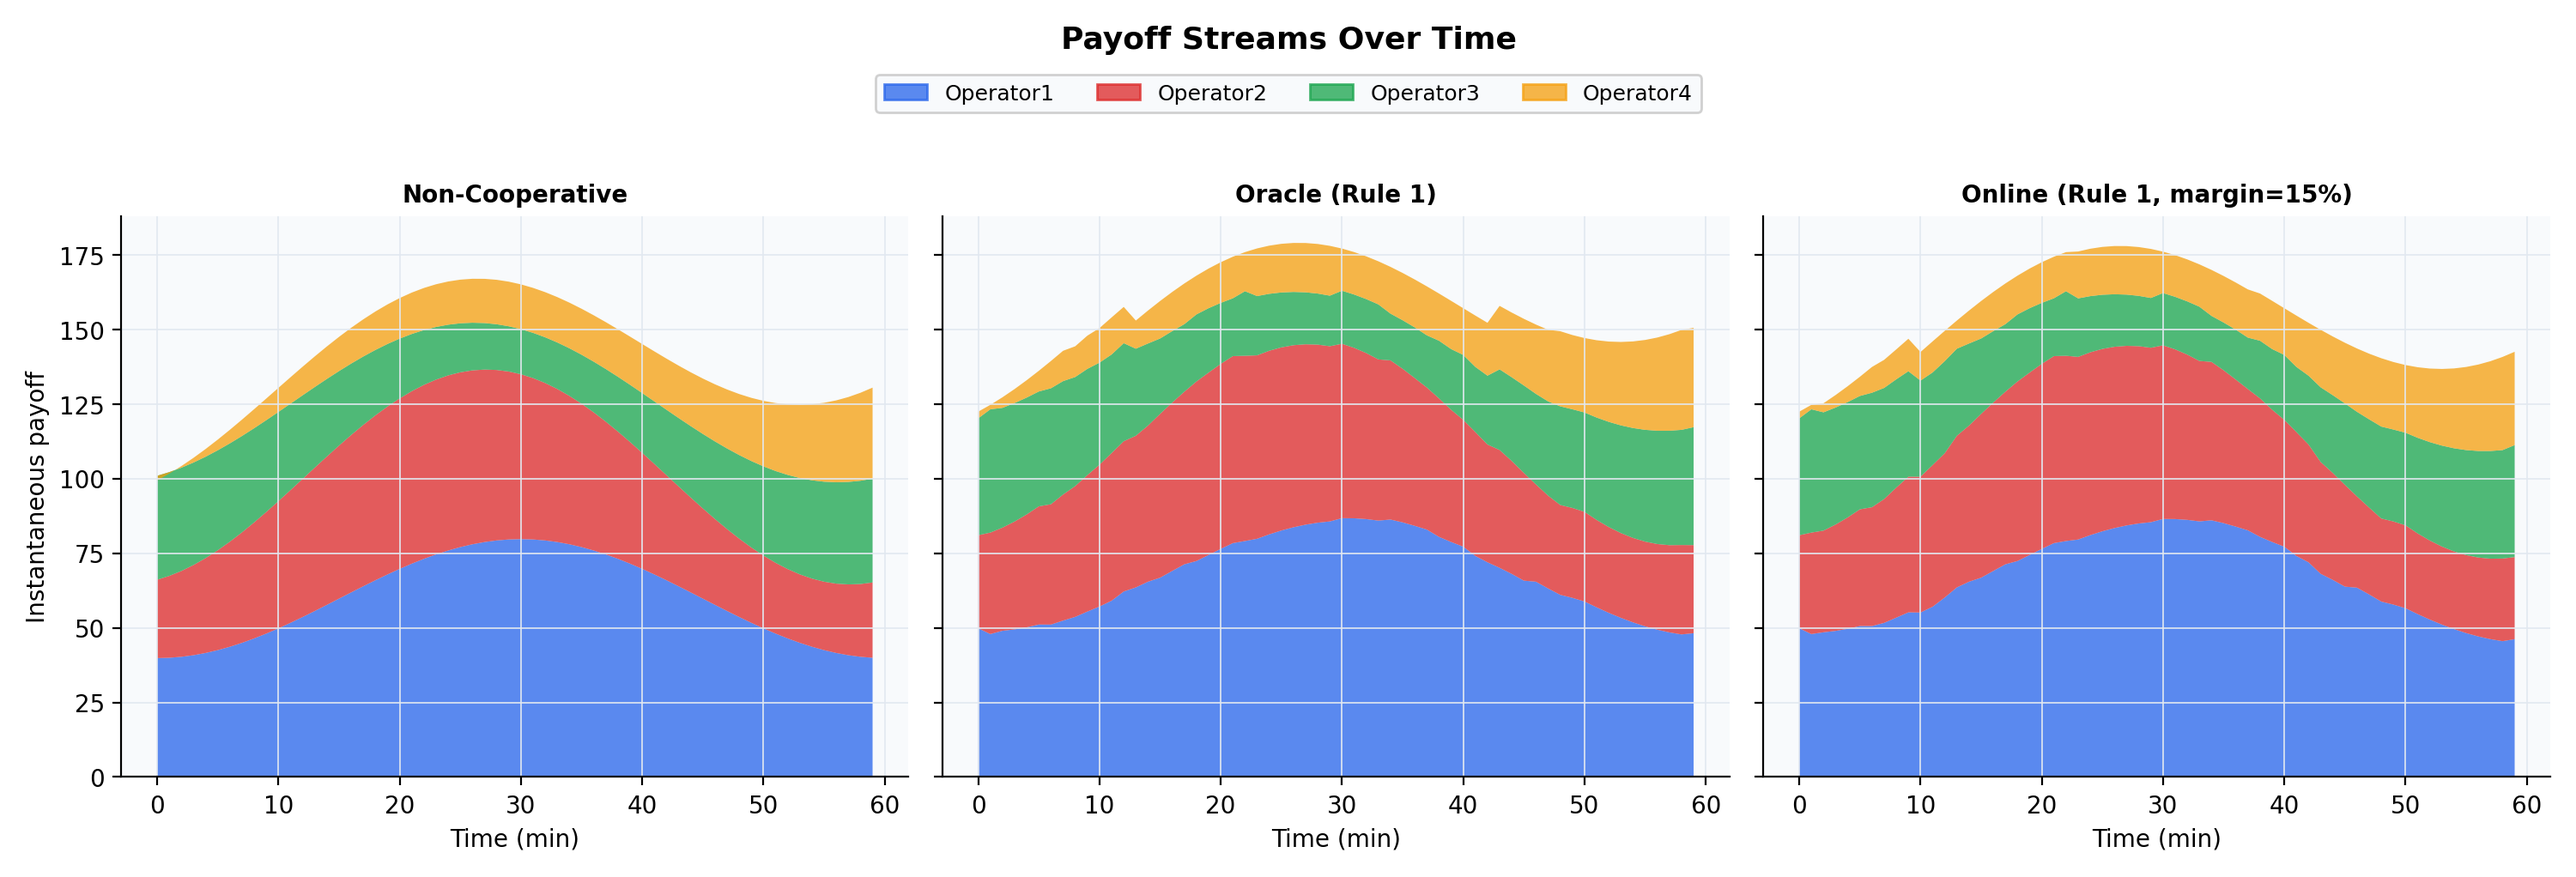
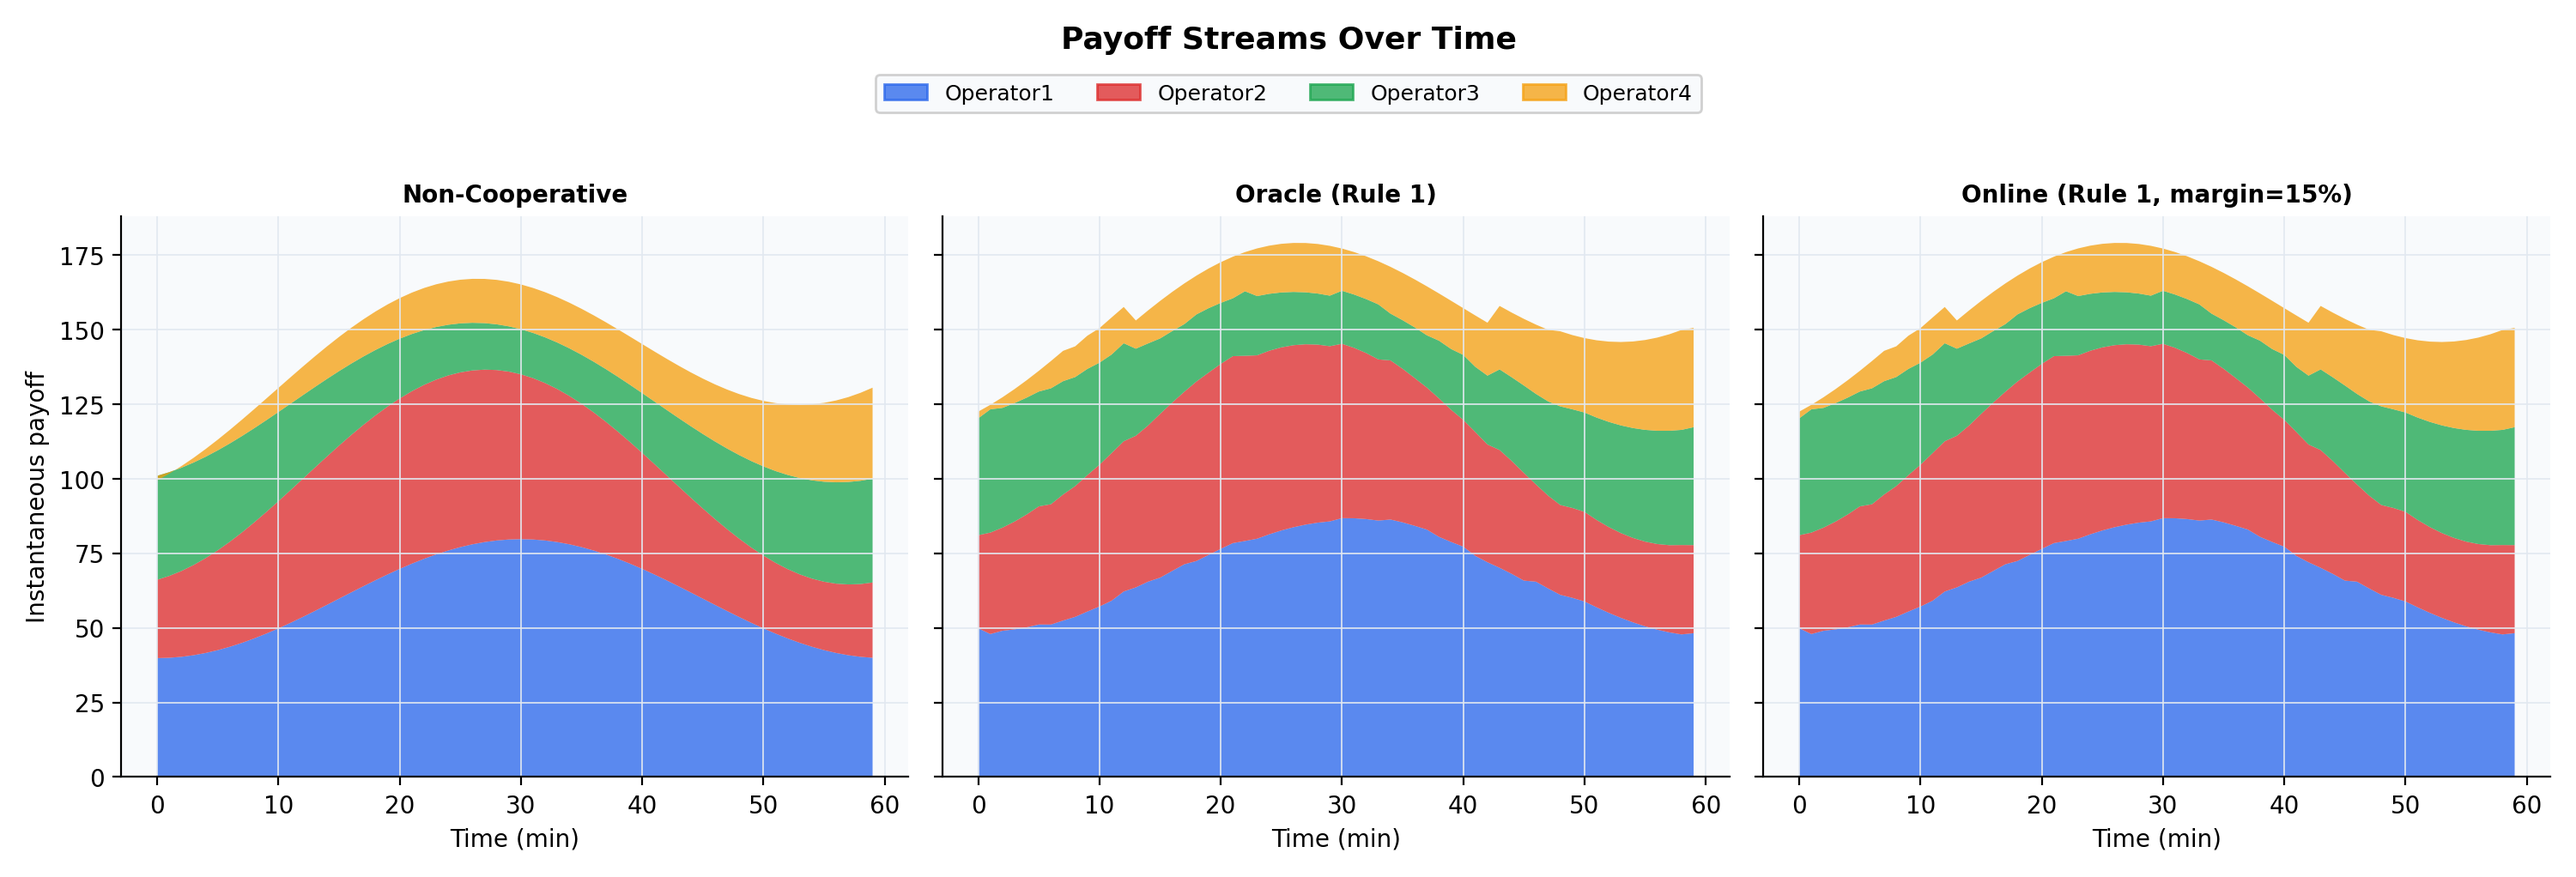
Add proportional & min-cost allocation, compare
Introduce two allocation strategies and run comparative online experiments. allocate.py: add allocate_minimize_cost (greedy min variable cost using beta/capacity) and allocate_proportional (capacity-proportional allocation).

diff --git a/src/main.py b/src/main.py
@@ -20,7 +20,7 @@ from itertools import permutations, combinations
 from typing import Any, Callable, Optional
 from math import factorial, sqrt
 
-from allocate import allocate_uniform_until_saturation
+from allocate import allocate_uniform_until_saturation, allocate_proportional
 from utility import single_operator_utility
 from generate_data import OperatorParams, get_example_operators, get_example_traffic
 from optimiser import coalition_utility, coalition_value_star
@@ -117,7 +117,8 @@ def simulate_one_hour_online(
     traffic: dict[int, list[float]],
     coalition: Optional[list[int]] = None,
     window_size: int = 5,
-    safety_margin: float = 0.15
+    safety_margin: float = 0.15,
+    allocation_func: Callable = allocate_uniform_until_saturation
 ) -> dict[str, Any]:
     """
     Online mode simulation: predict traffic using historical data (0..t-1).
@@ -141,6 +142,7 @@ def simulate_one_hour_online(
         coalition: Coalition to simulate (default: all operators)
         window_size: Number of past observations for moving average prediction
         safety_margin: Fraction to inflate predicted traffic for guardian selection (default 0.15 = 15%)
+        allocation_func: Function to allocate traffic among guardians (default: allocate_uniform_until_saturation)
 
     Returns:
         Dictionary containing:
@@ -215,7 +217,6 @@ def simulate_one_hour_online(
         # But compute actual value using REAL traffic with chosen guardians
         # This represents what actually happens when we apply the decision
         from optimiser import coalition_utility
-        from allocate import allocate_uniform_until_saturation
 
         # Check if guardians can handle actual traffic
         total_actual_traffic = sum(actual_at_t[i] for i in coalition)
@@ -226,7 +227,7 @@ def simulate_one_hour_online(
             actual_v_star = coalition_utility(coalition, guardians_t, operators, actual_at_t)
             # Compute actual allocation for payoff calculation
             capacities = {g: operators[g].capacity_epsilon for g in guardians_t}
-            actual_allocation = allocate_uniform_until_saturation(
+            actual_allocation = allocation_func(
                 guardians_t, capacities, total_actual_traffic
             )
         else:
@@ -389,7 +390,7 @@ def verify_super_additivity(
     print("(Testing at t=0, t=30, t=59)")
     print()
 
-    test_times = [0, 5, 10, 15, 25, 35, 50, 59]
+    test_times = [i for i in range(len(next(iter(traffic.values()))))]
     test_times = [t for t in test_times if t < len(next(iter(traffic.values())))]
 
     violations = []
@@ -548,32 +549,54 @@ if __name__ == "__main__":
 
     safety_margin = 0.15
     print("\n" + "=" * 60)
-    print(f"Running Online Mode (prediction-based, {safety_margin:.0%} safety margin)...")
+    print(f"Running Online Mode (uniform allocation, {safety_margin:.0%} safety margin)...")
     print("=" * 60)
-    online_result = simulate_one_hour_online(
-        ops, traffic_data, coalition, window_size=5, safety_margin=safety_margin
+    online_uniform_result = simulate_one_hour_online(
+        ops, traffic_data, coalition, window_size=5, safety_margin=safety_margin,
+        allocation_func=allocate_uniform_until_saturation
+    )
+
+    print("\n" + "=" * 60)
+    print(f"Running Online Mode (proportional allocation, {safety_margin:.0%} safety margin)...")
+    print("=" * 60)
+    online_proportional_result = simulate_one_hour_online(
+        ops, traffic_data, coalition, window_size=5, safety_margin=safety_margin,
+        allocation_func=allocate_proportional
     )
 
     # Compare results
     print("\n" + "=" * 60)
-    print("Comparison: Oracle vs Online")
+    print("Comparison: Oracle vs Online (Uniform Allocation)")
     print("=" * 60)
-    comparison = compare_oracle_vs_online(oracle_result, online_result)
+    comparison_uniform = compare_oracle_vs_online(oracle_result, online_uniform_result)
 
     print(f"\n  Safety Margin:           {safety_margin:.0%}")
-    print(f"  Guardian Agreement Rate: {comparison['guardian_agreement']:.1%}")
-    print(f"  Oracle Total Value:      {comparison['oracle_total_value']:.2f}")
-    print(f"  Online Total Value:      {comparison['online_total_value']:.2f}")
-    print(f"  Value Loss:              {comparison['value_loss_total']:.2f} ({comparison['value_loss_percent']:.2f}%)")
-    print(f"  Prediction RMSE:         {comparison['prediction_rmse']:.4f}")
-    print(f"  Capacity Failures:       {comparison['capacity_failure_count']} time steps")
+    print(f"  Guardian Agreement Rate: {comparison_uniform['guardian_agreement']:.1%}")
+    print(f"  Oracle Total Value:      {comparison_uniform['oracle_total_value']:.2f}")
+    print(f"  Online Total Value:      {comparison_uniform['online_total_value']:.2f}")
+    print(f"  Value Loss:              {comparison_uniform['value_loss_total']:.2f} ({comparison_uniform['value_loss_percent']:.2f}%)")
+    print(f"  Prediction RMSE:         {comparison_uniform['prediction_rmse']:.4f}")
+    print(f"  Capacity Failures:       {comparison_uniform['capacity_failure_count']} time steps")
+
+    print("\n" + "=" * 60)
+    print("Comparison: Oracle vs Online (Proportional Allocation)")
+    print("=" * 60)
+    comparison_proportional = compare_oracle_vs_online(oracle_result, online_proportional_result)
+
+    print(f"\n  Safety Margin:           {safety_margin:.0%}")
+    print(f"  Guardian Agreement Rate: {comparison_proportional['guardian_agreement']:.1%}")
+    print(f"  Oracle Total Value:      {comparison_proportional['oracle_total_value']:.2f}")
+    print(f"  Online Total Value:      {comparison_proportional['online_total_value']:.2f}")
+    print(f"  Value Loss:              {comparison_proportional['value_loss_total']:.2f} ({comparison_proportional['value_loss_percent']:.2f}%)")
+    print(f"  Prediction RMSE:         {comparison_proportional['prediction_rmse']:.4f}")
+    print(f"  Capacity Failures:       {comparison_proportional['capacity_failure_count']} time steps")
     
     # Show capacity failure details if any
-    if comparison['capacity_failures']:
+    if comparison_uniform['capacity_failures']:
         print("\n" + "-" * 60)
         print("Capacity Failures (prediction underestimated traffic)")
         print("-" * 60)
-        for failure in comparison['capacity_failures']:
+        for failure in comparison_uniform['capacity_failures']:
             print(f"  t={failure['t']:2d}: needed {failure['needed']:.2f}, "
                   f"available {failure['available']:.2f}, "
                   f"shortfall {failure['shortfall']:.2f}")
@@ -582,16 +605,17 @@ if __name__ == "__main__":
     print("\n" + "-" * 60)
     print("Detailed Comparison (selected time steps)")
     print("-" * 60)
-    print(f"{'t':>3} | {'Oracle Guardians':<18} | {'Online Guardians':<18} | {'Match':<5} | {'Oracle v*':>10} | {'Online v*':>10}")
-    print("-" * 80)
+    print(f"{'t':>3} | {'Oracle Guardians':<18} | {'Uniform Guardians':<18} | {'Prop Guardians':<18} | {'Oracle v*':>10} | {'Uniform v*':>10} | {'Prop v*':>10}")
+    print("-" * 120)
 
     for t in [0, 10, 20, 30, 40, 50, 59]:
         oracle_g = oracle_result['guardians'][t]
-        online_g = online_result['guardians'][t]
-        match = "✓" if set(oracle_g) == set(online_g) else "✗"
+        uniform_g = online_uniform_result['guardians'][t]
+        prop_g = online_proportional_result['guardians'][t]
         oracle_v = oracle_result['v_star'][t]
-        online_v = online_result['v_star'][t]
-        print(f"{t:>3} | {str(oracle_g):<18} | {str(online_g):<18} | {match:^5} | {oracle_v:>10.2f} | {online_v:>10.2f}")
+        uniform_v = online_uniform_result['v_star'][t]
+        prop_v = online_proportional_result['v_star'][t]
+        print(f"{t:>3} | {str(oracle_g):<18} | {str(uniform_g):<18} | {str(prop_g):<18} | {oracle_v:>10.2f} | {uniform_v:>10.2f} | {prop_v:>10.2f}")
 
     # Show prediction errors
     print("\n" + "-" * 60)
@@ -605,9 +629,9 @@ if __name__ == "__main__":
     for t in [5, 15, 30, 45]:
         print(f"{t:>3} | ", end="")
         for i in range(num_operators):
-            pred = online_result['predicted_traffic'][t][i]
-            actual = online_result['actual_traffic'][t][i]
-            error = online_result['prediction_errors'][i][t]
+            pred = online_uniform_result['predicted_traffic'][t][i]
+            actual = online_uniform_result['actual_traffic'][t][i]
+            error = online_uniform_result['prediction_errors'][i][t]
             print(f"{pred:>10.2f} {actual:>10.2f} {error:>+8.2f} | ", end="")
         print()
 
@@ -650,19 +674,34 @@ if __name__ == "__main__":
     total_r3 = sum(sum(oracle_result['payoffs_rule3'][i]) for i in coalition)
     print(f"{'Total':<12} | {total_r1:>12.2f} | {total_r2:>12.2f} | {total_r3:>12.2f} | {total_r1 - standalone_total:>+12.2f}")
 
-    print("\n--- Online Mode ---")
+    print("\n--- Online Mode (Uniform Allocation) ---")
     print(f"{'Operator':<12} | {'Rule 1':>12} | {'Rule 2':>12} | {'Rule 3':>12} | {'vs Alone':>12}")
     print("-" * 70)
     for i in coalition:
-        r1 = sum(online_result['payoffs_rule1'][i])
-        r2 = sum(online_result['payoffs_rule2'][i])
-        r3 = sum(online_result['payoffs_rule3'][i])
+        r1 = sum(online_uniform_result['payoffs_rule1'][i])
+        r2 = sum(online_uniform_result['payoffs_rule2'][i])
+        r3 = sum(online_uniform_result['payoffs_rule3'][i])
         gain = r1 - standalone_profits[i]
         print(f"{ops[i].name:<12} | {r1:>12.2f} | {r2:>12.2f} | {r3:>12.2f} | {gain:>+12.2f}")
     print("-" * 70)
-    total_r1 = sum(sum(online_result['payoffs_rule1'][i]) for i in coalition)
-    total_r2 = sum(sum(online_result['payoffs_rule2'][i]) for i in coalition)
-    total_r3 = sum(sum(online_result['payoffs_rule3'][i]) for i in coalition)
+    total_r1 = sum(sum(online_uniform_result['payoffs_rule1'][i]) for i in coalition)
+    total_r2 = sum(sum(online_uniform_result['payoffs_rule2'][i]) for i in coalition)
+    total_r3 = sum(sum(online_uniform_result['payoffs_rule3'][i]) for i in coalition)
+    print(f"{'Total':<12} | {total_r1:>12.2f} | {total_r2:>12.2f} | {total_r3:>12.2f} | {total_r1 - standalone_total:>+12.2f}")
+
+    print("\n--- Online Mode (Proportional Allocation) ---")
+    print(f"{'Operator':<12} | {'Rule 1':>12} | {'Rule 2':>12} | {'Rule 3':>12} | {'vs Alone':>12}")
+    print("-" * 70)
+    for i in coalition:
+        r1 = sum(online_proportional_result['payoffs_rule1'][i])
+        r2 = sum(online_proportional_result['payoffs_rule2'][i])
+        r3 = sum(online_proportional_result['payoffs_rule3'][i])
+        gain = r1 - standalone_profits[i]
+        print(f"{ops[i].name:<12} | {r1:>12.2f} | {r2:>12.2f} | {r3:>12.2f} | {gain:>+12.2f}")
+    print("-" * 70)
+    total_r1 = sum(sum(online_proportional_result['payoffs_rule1'][i]) for i in coalition)
+    total_r2 = sum(sum(online_proportional_result['payoffs_rule2'][i]) for i in coalition)
+    total_r3 = sum(sum(online_proportional_result['payoffs_rule3'][i]) for i in coalition)
     print(f"{'Total':<12} | {total_r1:>12.2f} | {total_r2:>12.2f} | {total_r3:>12.2f} | {total_r1 - standalone_total:>+12.2f}")
 
     # Verify super-additivity of v*

diff --git a/src/allocate.py b/src/allocate.py
@@ -66,4 +66,107 @@ def allocate_uniform_until_saturation(
                 allocation[g] = lambda_candidate
             break
 
+def allocate_minimize_cost(
+    guardians: list[int],
+    capacities: dict[int, float],
+    betas: dict[int, float],
+    total_traffic: float
+) -> dict[int, float]:
+    """
+    Allocates traffic to guardians to minimize total variable cost.
+
+    The variable cost for a guardian is beta_i * (allocated_traffic_i / capacity_i).
+    To minimize sum beta_i * utilization_i, we allocate traffic greedily to
+    guardians with the lowest cost per unit capacity (beta_i / capacity_i).
+
+    Algorithm:
+    1. Sort guardians by cost_per_unit = beta / capacity (ascending)
+    2. Allocate as much as possible to the cheapest guardian, then next, etc.
+
+    Args:
+        guardians: List of guardian operator indices
+        capacities: Dictionary mapping operator index to their capacity
+        betas: Dictionary mapping operator index to their beta (cost coefficient)
+        total_traffic: Total traffic to allocate
+
+    Returns:
+        Dictionary mapping guardian index to allocated traffic.
+
+    Raises:
+        ValueError: If total capacity is insufficient for the traffic.
+    """
+    if not guardians:
+        if total_traffic > 0:
+            raise ValueError("No guardians available to handle traffic")
+        return {}
+
+    # Get capacities and betas for guardians
+    guardian_data = [(g, capacities[g], betas[g]) for g in guardians]
+    total_capacity = sum(cap for _, cap, _ in guardian_data)
+
+    if total_capacity < total_traffic - 1e-9:
+        raise ValueError(
+            f"Insufficient capacity: {total_capacity:.2f} < {total_traffic:.2f}"
+        )
+
+    # Sort by cost per unit capacity (beta / capacity) ascending
+    guardian_data.sort(key=lambda x: x[2] / x[1])
+
+    allocation: dict[int, float] = {g: 0.0 for g in guardians}
+    remaining_traffic = total_traffic
+
+    for g, cap, _ in guardian_data:
+        if remaining_traffic <= 0:
+            break
+        allocate_amount = min(remaining_traffic, cap - allocation[g])
+        allocation[g] += allocate_amount
+        remaining_traffic -= allocate_amount
+
     return allocation
+
+def allocate_proportional(
+    guardians: list[int],
+    capacities: dict[int, float],
+    total_traffic: float
+) -> dict[int, float]:
+    """
+    Allocates traffic to guardians proportionally to their capacities.
+
+    Each guardian receives traffic proportional to their capacity relative to the total capacity
+    of all guardians. This ensures that larger capacity guardians handle more traffic.
+
+    Formula: allocation[g] = (capacities[g] / total_capacity) * total_traffic
+
+    Args:
+        guardians: List of guardian operator indices
+        capacities: Dictionary mapping operator index to their capacity
+        total_traffic: Total traffic to allocate
+
+    Returns:
+        Dictionary mapping guardian index to allocated traffic.
+
+    Raises:
+        ValueError: If total capacity is insufficient for the traffic.
+    """
+    if not guardians:
+        if total_traffic > 0:
+            raise ValueError("No guardians available to handle traffic")
+        return {}
+
+    # Get capacities for guardians and check feasibility
+    guardian_caps = [(g, capacities[g]) for g in guardians]
+    total_capacity = sum(cap for _, cap in guardian_caps)
+
+    if total_capacity < total_traffic - 1e-9:
+        raise ValueError(
+            f"Insufficient capacity: {total_capacity:.2f} < {total_traffic:.2f}"
+        )
+
+    # Allocate proportionally
+    allocation: dict[int, float] = {}
+    for g in guardians:
+        allocation[g] = (capacities[g] / total_capacity) * total_traffic
+
+    return allocation
+
+

diff --git a/src/optimiser.py b/src/optimiser.py
@@ -1,5 +1,5 @@
 from generate_data import OperatorParams
-from allocate import allocate_uniform_until_saturation
+from allocate import allocate_uniform_until_saturation, allocate_minimize_cost
 from itertools import combinations
 
 
@@ -40,7 +40,8 @@ def coalition_utility(
     capacities = {i: operators[i].capacity_epsilon for i in guardians}
 
     # Allocate traffic using uniform-until-saturation
-    allocation = allocate_uniform_until_saturation(guardians, capacities, total_traffic)
+    betas = {i: operators[i].beta for i in guardians}
+    allocation = allocate_minimize_cost(guardians, capacities, betas, total_traffic)
 
     # Compute costs for guardians
     total_variable_cost = 0.0
@@ -100,9 +101,8 @@ def coalition_value_star(
             # Compute allocation and utility
             capacities = {g: operators[g].capacity_epsilon for g in guardians}
             try:
-                allocation = allocate_uniform_until_saturation(
-                    guardians, capacities, total_traffic
-                )
+                betas = {i: operators[i].beta for i in guardians}
+                allocation = allocate_minimize_cost(guardians, capacities, betas, total_traffic)
             except ValueError:
                 continue
 

diff --git a/src/visualisation.py b/src/visualisation.py
@@ -424,7 +424,7 @@ def fig_super_additivity_deficit(ops, traffic, coalition, out_dir):
     plt.close(fig)
 
 
-# ── Figure 9: Summary Dashboard ─────────────────────────────────────────────
+# ── Figure 10: Summary Dashboard ─────────────────────────────────────────────
 
 def fig_summary_dashboard(ops, traffic, coalition, oracle, online,
                           comparison, standalone_ts, out_dir):
